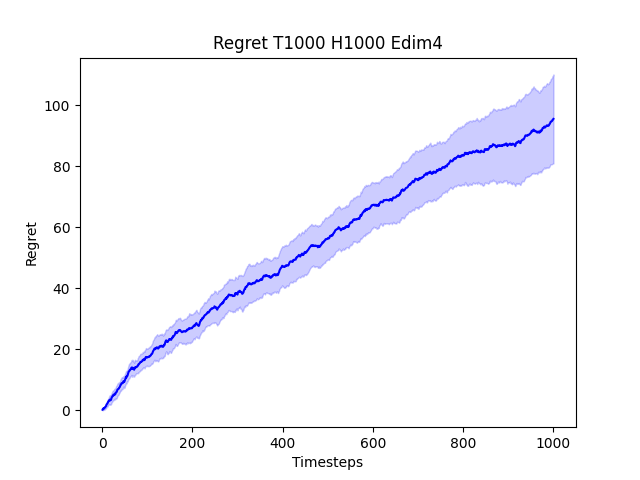
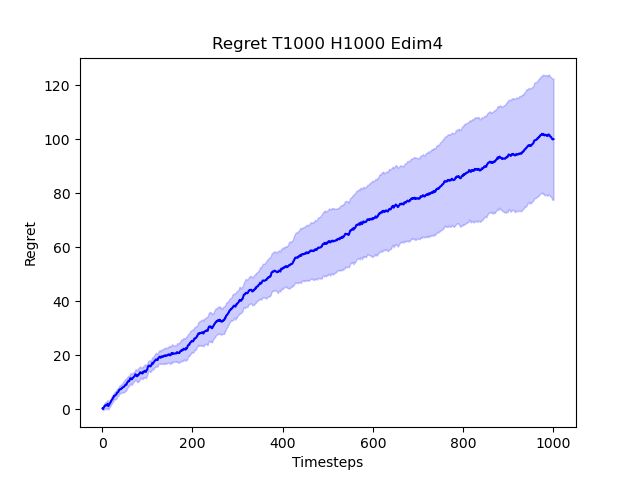
lsakdmf

diff --git a/discrete_contextual_baldwin.py b/discrete_contextual_baldwin.py
@@ -146,7 +146,7 @@ if __name__ == '__main__':
 	# creature_horizon = 1000
 	# evolver_dimensions = 2
 	num_experiments = 10
-	step_size = .1
+	step_size = .5
 
 	Ts = np.arange(evolver_timesteps)+1
 
